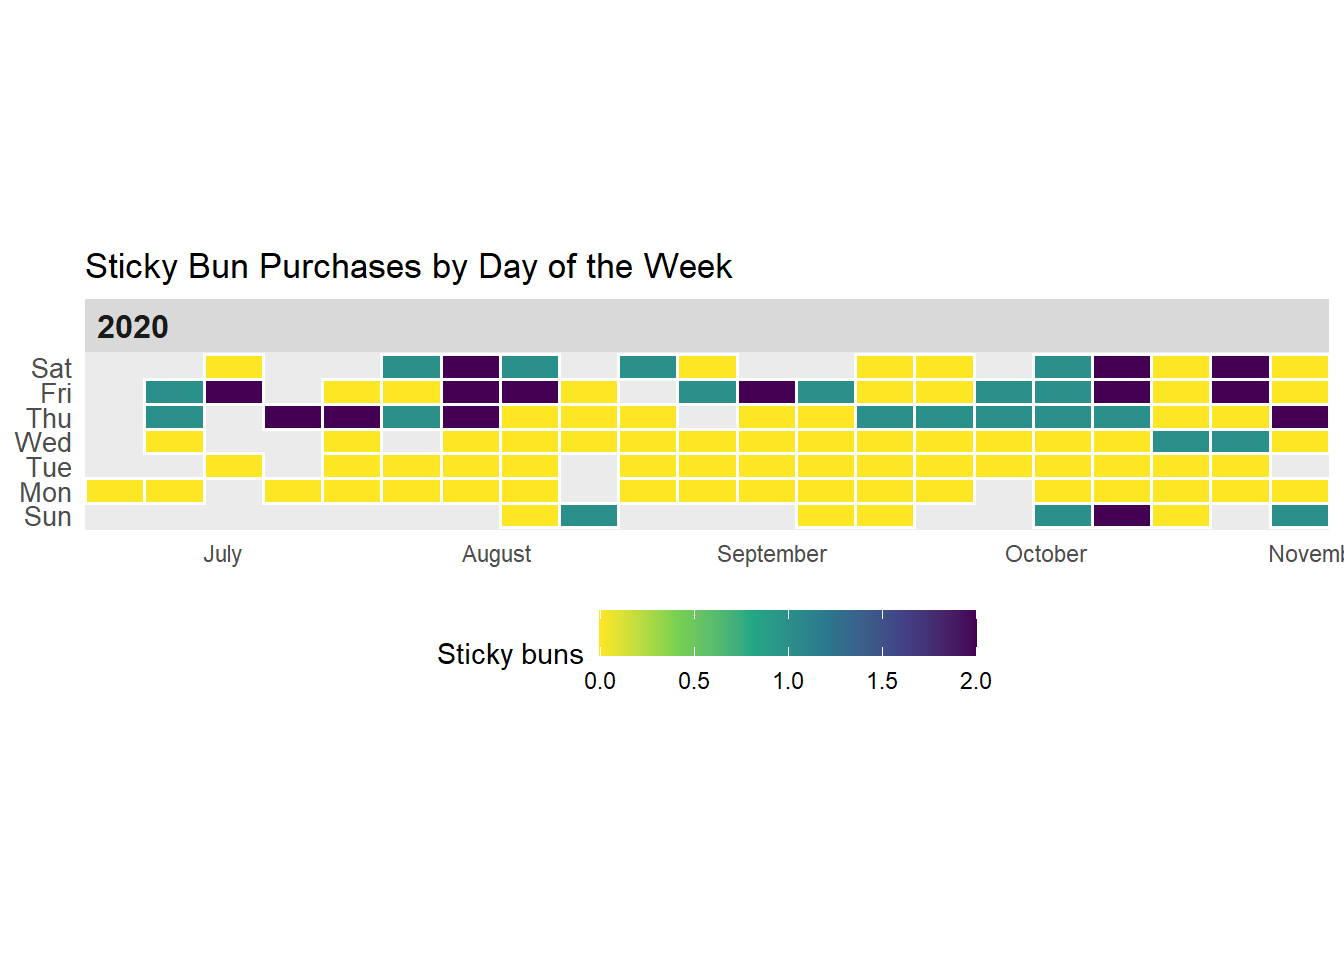
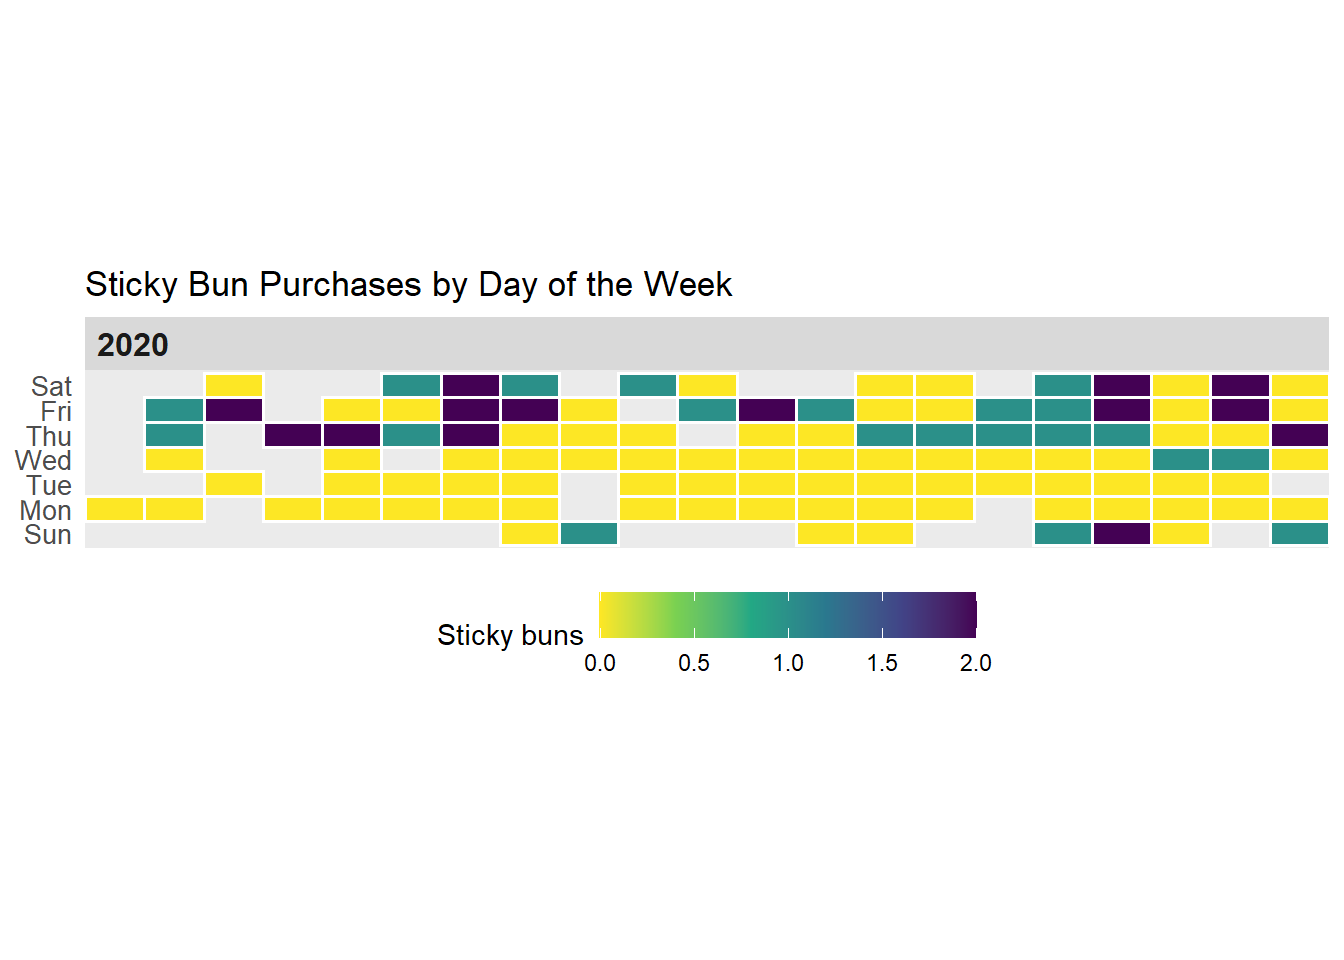
Rerender site

Changed region(s): [[0.0, 0.25, 1.0, 0.7188], [0.1562, 0.5625, 0.1875, 0.5938]]

diff --git a/docs/posts/2023-02-26-A sticky bun, but not every day/index.html b/docs/posts/2023-02-26-A sticky bun, but not every day/index.html
@@ -487,10 +487,10 @@ window.document.addEventListener("DOMContentLoaded", function (event) {
 <span id="cb1-66"><a href="#cb1-66" aria-hidden="true" tabindex="-1"></a></span>
 <span id="cb1-67"><a href="#cb1-67" aria-hidden="true" tabindex="-1"></a>     <span class="fu">scale_x_continuous</span>(</span>
 <span id="cb1-68"><a href="#cb1-68" aria-hidden="true" tabindex="-1"></a>      <span class="at">expand =</span> <span class="fu">c</span>(<span class="dv">0</span>, <span class="dv">0</span>),</span>
-<span id="cb1-69"><a href="#cb1-69" aria-hidden="true" tabindex="-1"></a>      <span class="at">breaks =</span> <span class="fu">seq</span>(<span class="dv">1</span>, <span class="dv">52</span>, <span class="at">length =</span> <span class="dv">12</span>),</span>
+<span id="cb1-69"><a href="#cb1-69" aria-hidden="true" tabindex="-1"></a>      <span class="at">breaks =</span> <span class="fu">seq</span>(<span class="dv">1</span>, <span class="dv">21</span>, <span class="at">length =</span> <span class="dv">5</span>),</span>
 <span id="cb1-70"><a href="#cb1-70" aria-hidden="true" tabindex="-1"></a>      <span class="at">labels =</span> <span class="fu">c</span>(</span>
-<span id="cb1-71"><a href="#cb1-71" aria-hidden="true" tabindex="-1"></a>        <span class="st">"Jan"</span>, <span class="st">"Feb"</span>, <span class="st">"Mar"</span>, <span class="st">"Apr"</span>, <span class="st">"May"</span>, <span class="st">"Jun"</span>,</span>
-<span id="cb1-72"><a href="#cb1-72" aria-hidden="true" tabindex="-1"></a>        <span class="st">"July"</span>, <span class="st">"August"</span>, <span class="st">"September"</span>, <span class="st">"October"</span>, <span class="st">"November"</span>, <span class="st">"Dec"</span></span>
+<span id="cb1-71"><a href="#cb1-71" aria-hidden="true" tabindex="-1"></a>      <span class="co">#  "Jan", "Feb", "Mar", "Apr", "May", "Jun",</span></span>
+<span id="cb1-72"><a href="#cb1-72" aria-hidden="true" tabindex="-1"></a>        <span class="st">"July"</span>, <span class="st">"August"</span>, <span class="st">"September"</span>, <span class="st">"October"</span>, <span class="st">"November"</span> <span class="co">#"Dec"</span></span>
 <span id="cb1-73"><a href="#cb1-73" aria-hidden="true" tabindex="-1"></a>      )</span>
 <span id="cb1-74"><a href="#cb1-74" aria-hidden="true" tabindex="-1"></a>    ) <span class="sc">+</span></span>
 <span id="cb1-75"><a href="#cb1-75" aria-hidden="true" tabindex="-1"></a></span>

diff --git a/docs/posts.html b/docs/posts.html
@@ -162,7 +162,7 @@ ul.task-list li input[type="checkbox"] {
 
 <div class="quarto-listing quarto-listing-container-grid" id="listing-listing">
 <div class="list grid quarto-listing-cols-3">
-<div class="g-col-1" data-index="0" data-categories="R,Quarto,Family Life" data-listing-date-sort="1677387600000" data-listing-file-modified-sort="1678195156132" data-listing-reading-time-sort="2.385">
+<div class="g-col-1" data-index="0" data-categories="R,Quarto,Family Life" data-listing-date-sort="1677387600000" data-listing-file-modified-sort="1678195527566" data-listing-reading-time-sort="2.385">
 <a href="./posts/2023-02-26-A sticky bun, but not every day/index.html" class="quarto-grid-link">
 <div class="quarto-grid-item card h-100 card-left">
 <div class="card-body post-contents">
